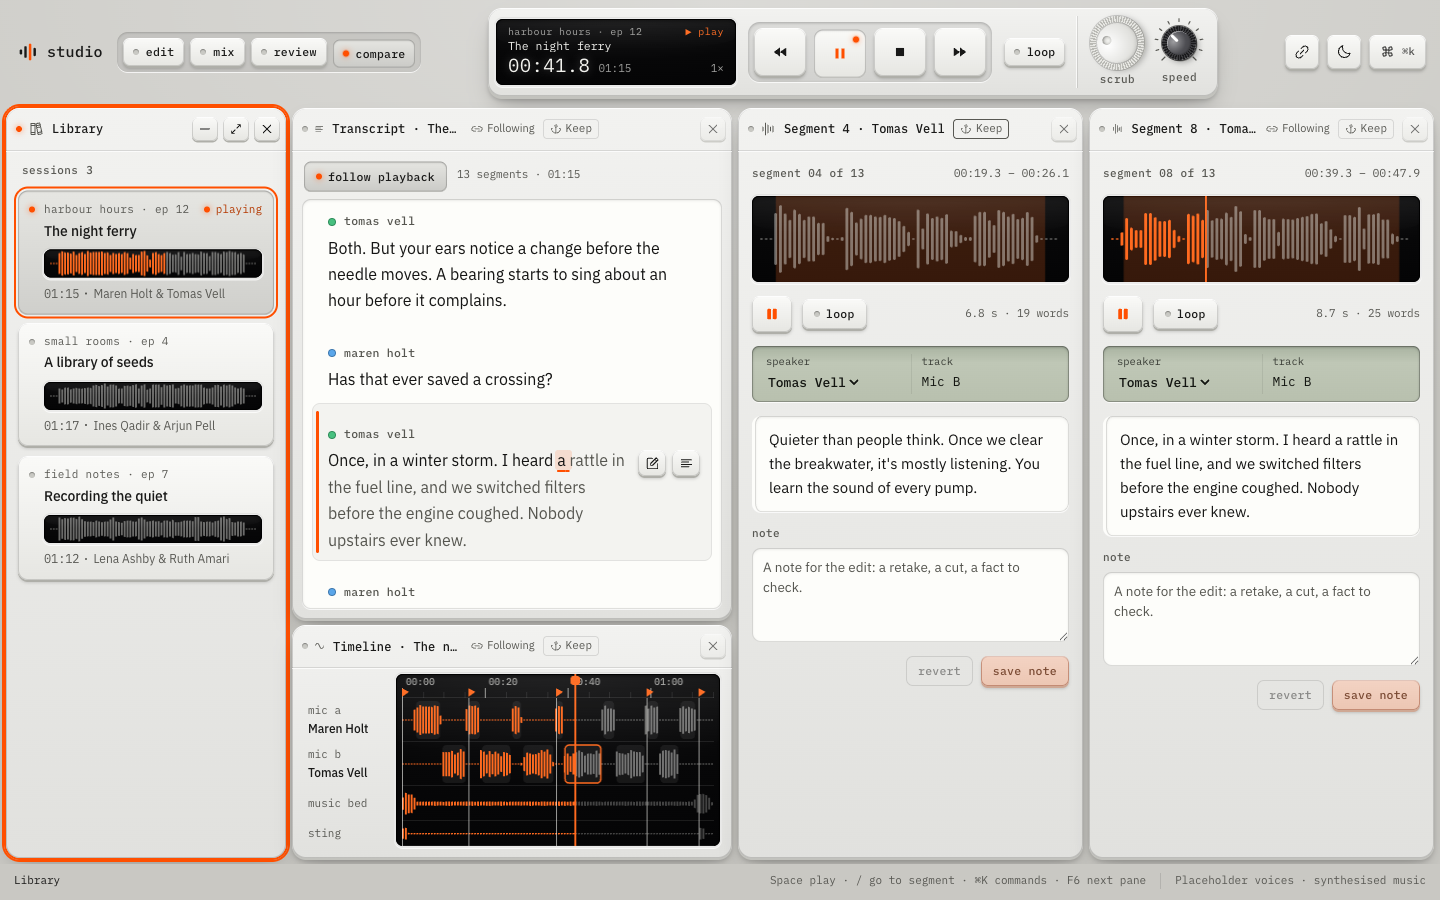
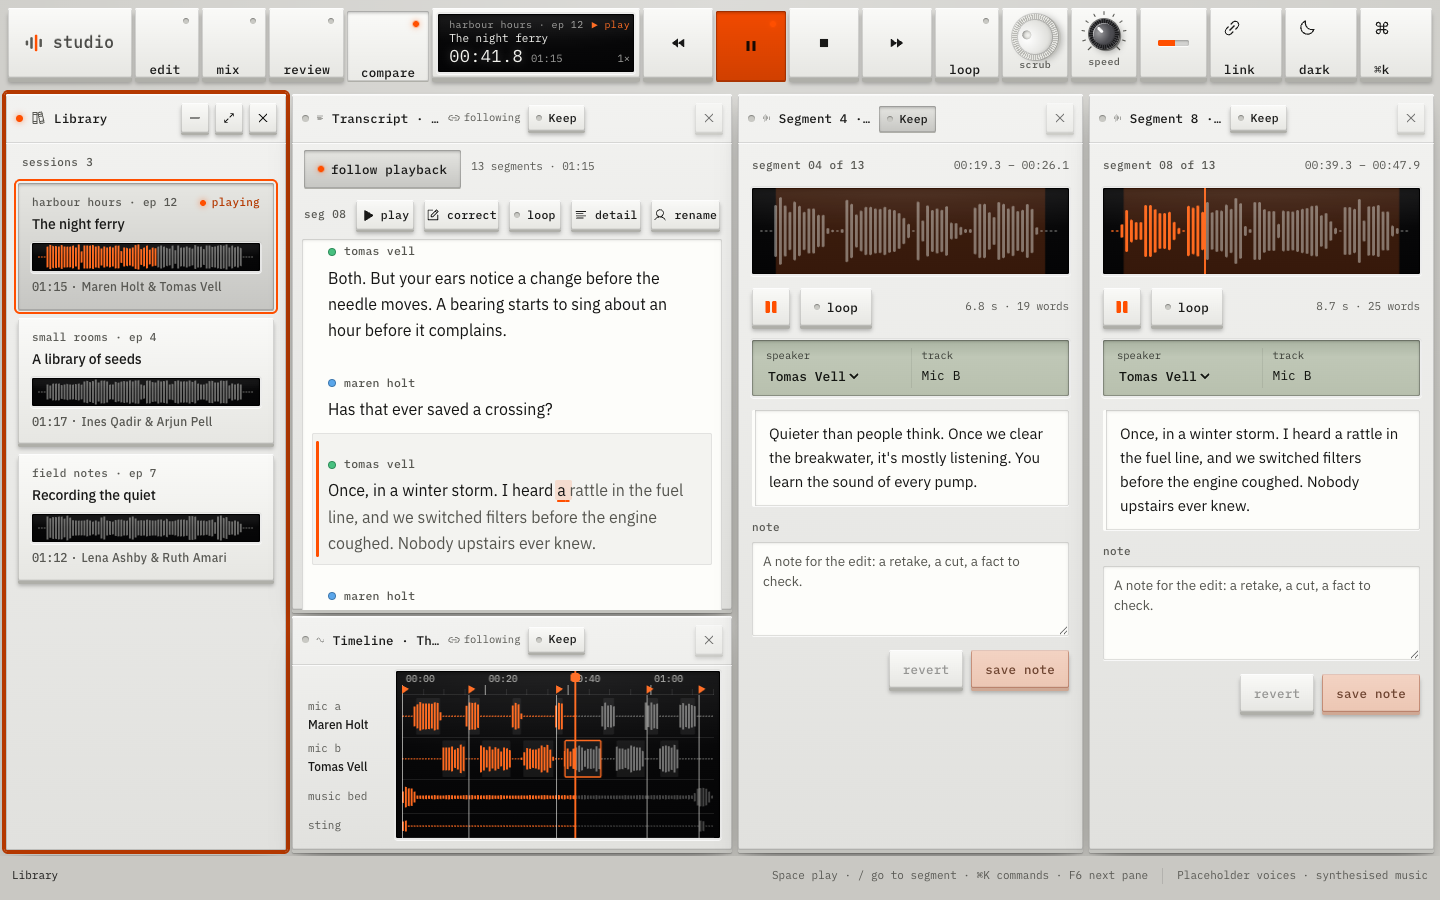
Studio example: top-row close-ups, every screenshot regenerated, README and the consolidated theming gaps

diff --git a/examples/studio/src/styles/parts.css b/examples/studio/src/styles/parts.css
@@ -19,7 +19,14 @@
  */
 @layer app {
   /* ---------- housing ---------- */
-  :where(.device, .jali-pane, .jali-peek, .jali-tab-menu, .jali-scrim > [role="dialog"], .jali-scrim > [role="alertdialog"]) {
+  :where(
+    .device,
+    .jali-pane,
+    .jali-peek,
+    .jali-tab-menu,
+    .jali-scrim > [role="dialog"],
+    .jali-scrim > [role="alertdialog"]
+  ) {
     background: linear-gradient(180deg, var(--body-1), var(--body-2));
     border: 0;
     border-radius: var(--corner);
@@ -58,17 +65,17 @@
 
   /* ---------- key ---------- */
   :where(
-      .key,
-      .lib-row,
-      .jali-tab,
-      .jali-tab-add,
-      .jali-tab-more,
-      .jali-shelf-chip,
-      .jali-switch-item,
-      .jali-pane-actions button,
-      .jali-follow-toggle,
-      .jali-scrim [role="alertdialog"] button
-    ) {
+    .key,
+    .lib-row,
+    .jali-tab,
+    .jali-tab-add,
+    .jali-tab-more,
+    .jali-shelf-chip,
+    .jali-switch-item,
+    .jali-pane-actions button,
+    .jali-follow-toggle,
+    .jali-scrim [role="alertdialog"] button
+  ) {
     --wall: 3px;
     --press: 0px;
     position: relative;
@@ -107,15 +114,15 @@
   }
   /* Sizes: small (header buttons, tabs, chips, strip keys), unit (the top row), transport. */
   :where(
-      .key-s,
-      .jali-tab,
-      .jali-tab-add,
-      .jali-tab-more,
-      .jali-shelf-chip,
-      .jali-switch-item,
-      .jali-pane-actions button,
-      .jali-follow-toggle
-    ) {
+    .key-s,
+    .jali-tab,
+    .jali-tab-add,
+    .jali-tab-more,
+    .jali-shelf-chip,
+    .jali-switch-item,
+    .jali-pane-actions button,
+    .jali-follow-toggle
+  ) {
     --wall: 2px;
     height: 30px;
     min-width: 30px;
@@ -171,7 +178,11 @@
     --press: var(--wall);
   }
   :where(.key, .jali-tab, .jali-pane-actions button):hover:not(:disabled) {
-    background: linear-gradient(180deg, var(--cap-1), color-mix(in srgb, var(--cap-2) 80%, var(--cap-1)));
+    background: linear-gradient(
+      180deg,
+      var(--cap-1),
+      color-mix(in srgb, var(--cap-2) 80%, var(--cap-1))
+    );
   }
   :where(.key):disabled {
     cursor: default;
@@ -180,13 +191,13 @@
 
   /* ---------- latch ---------- */
   :where(
-      .key[aria-pressed="true"],
-      .key[data-on],
-      .lib-row[aria-selected="true"],
-      .jali-tab[aria-selected="true"],
-      .jali-switch-item[aria-selected="true"],
-      .jali-follow-toggle[aria-pressed="true"]
-    ) {
+    .key[aria-pressed="true"],
+    .key[data-on],
+    .lib-row[aria-selected="true"],
+    .jali-tab[aria-selected="true"],
+    .jali-switch-item[aria-selected="true"],
+    .jali-follow-toggle[aria-pressed="true"]
+  ) {
     --press: calc(var(--wall) - 1px);
     background: linear-gradient(180deg, var(--cap-2), color-mix(in srgb, var(--cap-2) 86%, #000));
     box-shadow:
@@ -217,13 +228,13 @@
     right: 8px;
   }
   :where(
-      .key[aria-pressed="true"] .led,
-      .key[data-on] .led,
-      .led[data-on],
-      .jali-tab[aria-selected="true"]::before,
-      .jali-switch-item[aria-selected="true"]::before,
-      .jali-follow-toggle[aria-pressed="true"]::before
-    ) {
+    .key[aria-pressed="true"] .led,
+    .key[data-on] .led,
+    .led[data-on],
+    .jali-tab[aria-selected="true"]::before,
+    .jali-switch-item[aria-selected="true"]::before,
+    .jali-follow-toggle[aria-pressed="true"]::before
+  ) {
     background: var(--led-on);
     box-shadow:
       0 0 0 1px rgb(255 79 0 / 0.25),
@@ -368,7 +379,11 @@
     width: 78%;
     height: 78%;
     border-radius: 50%;
-    background: radial-gradient(circle at 40% 30%, light-dark(#ffffff, #4a4a4e), light-dark(#dededa, #2a2a2d) 70%);
+    background: radial-gradient(
+      circle at 40% 30%,
+      light-dark(#ffffff, #4a4a4e),
+      light-dark(#dededa, #2a2a2d) 70%
+    );
     box-shadow:
       inset 0 0 0 1px var(--body-rim),
       inset 0 -2px 3px rgb(0 0 0 / 0.12);
@@ -381,7 +396,11 @@
     height: 9px;
     translate: -50% 0;
     border-radius: 50%;
-    background: radial-gradient(circle at 50% 65%, light-dark(#f4f4f1, #3a3a3e), light-dark(#c4c4bf, #1a1a1c));
+    background: radial-gradient(
+      circle at 50% 65%,
+      light-dark(#f4f4f1, #3a3a3e),
+      light-dark(#c4c4bf, #1a1a1c)
+    );
     box-shadow: inset 0 1px 2px rgb(0 0 0 / 0.35);
   }
 
@@ -510,5 +529,12 @@
     .knob-body {
       transition: none;
     }
+  }
+}
+
+@layer app {
+  /* A key's glyph keeps its size when the key is squeezed. */
+  :where(.key) :where(svg) {
+    flex: none;
   }
 }

diff --git a/examples/studio/src/panes/mixer.tsx b/examples/studio/src/panes/mixer.tsx
@@ -153,8 +153,7 @@ function Strip({ track, view }: { track: Track; view: SessionView }) {
           onMouseDown={(e) => e.preventDefault()}
           onClick={() => edits.setChannel(session, track.id, { mute: !ch.mute })}
         >
-          <span className="led" aria-hidden />
-          M
+          <span className="led" aria-hidden />M
         </button>
         <button
           type="button"
@@ -166,8 +165,7 @@ function Strip({ track, view }: { track: Track; view: SessionView }) {
           onMouseDown={(e) => e.preventDefault()}
           onClick={() => edits.setChannel(session, track.id, { solo: !ch.solo })}
         >
-          <span className="led" aria-hidden />
-          S
+          <span className="led" aria-hidden />S
         </button>
       </div>
     </section>

diff --git a/examples/studio/src/styles/chrome.css b/examples/studio/src/styles/chrome.css
@@ -45,7 +45,8 @@
   }
   .jali-pane-actions button {
     padding: 0;
-    width: 30px;
+    width: 28px;
+    min-width: 28px;
   }
   /* Following and Keep. Keep (`.jali-follow-toggle`, public) is a small latch key with its lamp (parts.css). The
      printed "Following" is not a public part (`.jali-follow-status`): it is set as a legend, and dropped in a
@@ -78,6 +79,14 @@
   .jali-tab {
     gap: 7px;
     margin-block: 0;
+    padding-inline: 9px 8px;
+  }
+  /* A narrow header gives its "+" key away first, so the shown tab keeps a little more of its name. Uses Jali's
+     internal header container name (FINDINGS.md). */
+  @container jali-header (max-width: 320px) {
+    .jali-tab-add {
+      display: none;
+    }
   }
   .jali-tab-indicator {
     display: none;

diff --git a/examples/studio/e2e/screens.spec.ts b/examples/studio/e2e/screens.spec.ts
@@ -63,3 +63,17 @@ test("a phone", async ({ page }) => {
   await stage(page, "edit");
   await page.screenshot({ path: shot("edit-phone") });
 });
+
+// Close-ups of the top row: one row of full-height blocks at every width.
+for (const [name, width, height, dark] of [
+  ["toprow-wide", 1440, 900, false],
+  ["toprow-wide-dark", 1440, 900, true],
+  ["toprow-medium", 1100, 800, false],
+  ["toprow-phone", 390, 844, false],
+] as const) {
+  test(name, async ({ page }) => {
+    await page.setViewportSize({ width, height });
+    await stage(page, "edit", { dark });
+    await page.locator(".topbar").screenshot({ path: shot(name) });
+  });
+}

diff --git a/examples/studio/src/shell/TopBar.tsx b/examples/studio/src/shell/TopBar.tsx
@@ -29,7 +29,11 @@ export function TopBar() {
   // the session's progress, and the tools. Groups are `display: contents`, so every block is a cell of one row.
   return (
     <header className="topbar" data-jali-chrome="">
-      <a className="block block-plate badge" href="./" aria-label="Studio, a Jali example: back to the Edit layout">
+      <a
+        className="block block-plate badge"
+        href="./"
+        aria-label="Studio, a Jali example: back to the Edit layout"
+      >
         <StudioMark />
         <span className="badge-name">studio</span>
       </a>

diff --git a/examples/studio/src/panes/transcript.tsx b/examples/studio/src/panes/transcript.tsx
@@ -285,7 +285,12 @@ function TranscriptBody({
               <button type="button" className="key" onMouseDown={keepFocus} onClick={discard}>
                 Discard
               </button>
-              <button type="button" className="key key-accent" onMouseDown={keepFocus} onClick={save}>
+              <button
+                type="button"
+                className="key key-accent"
+                onMouseDown={keepFocus}
+                onClick={save}
+              >
                 Save <kbd>{keyHint("Mod+S")}</kbd>
               </button>
             </>

diff --git a/examples/studio/src/panes/clip.tsx b/examples/studio/src/panes/clip.tsx
@@ -179,12 +179,7 @@ function ClipBody({
         ) : saved ? (
           <span className="toolbar-note">Saved</span>
         ) : null}
-        <button
-          type="button"
-          className="key"
-          disabled={!dirty}
-          onClick={() => setNote(null)}
-        >
+        <button type="button" className="key" disabled={!dirty} onClick={() => setNote(null)}>
           Revert
         </button>
         <button type="button" className="key key-accent" disabled={!dirty} onClick={saveNote}>

diff --git a/examples/studio/README.md b/examples/studio/README.md
@@ -21,6 +21,7 @@ The speech was made with macOS system voices (`say`), as a placeholder for the l
 - Move through the library with J and K. The transcript, the timeline, the mixer and the markers follow it, and the transport loads that session.
 - Click a word or a time in the transcript to play from there. Drag across the timeline, or turn the jog wheel in the transport, to scrub. Press / (or ⌘K ⌘J) for "Go to segment…", and type a word.
 - With the transcript focused, J and K move between segments, and the segment detail beside it follows. Press L to loop a segment. "Follow playback" moves the selection with the voice.
+- The selected segment's keys sit above the transcript: play, correct, loop, detail and rename. Nothing sits inside a row, so every row is one option a screen reader can move through.
 - Press E on a segment to correct it, then Esc. The correction is unsaved work: the tab shows a dot, and choosing Mix (which has no transcript) asks first. Choose Review instead: the transcript and its draft come along. ⌘S saves.
 - Click a speaker's name in the transcript to rename them. The timeline, the mixer and the segment detail follow.
 - In Mix, move a fader, mute or solo a track, and watch the meters. Make the window short until the mixer folds into a tab: the sound and the mix go on, only the meters stop drawing. The folded mixer's shelf chip shows it is working.
@@ -59,8 +60,11 @@ Every audio tool plays and pauses with Space, and Jali's lists use Space to peek
 
 Studio looks like a set of hardware modules on a desk. It is inspired by a design language of small audio instruments, not a copy of any product: there are no product names, model numbers or logos in it.
 
+- **The top row.** One full-width row of full-height blocks, tiled edge to edge with a 3px gap: the studio mark, the four layout keys, the transport's readout, back, play and pause (the one solid orange block), stop, forward, loop, scrub and speed, a filler plate with the session's progress cut into it as a groove, then link, theme and ⌘K. As the window narrows the row keeps its blocks and drops parts in order: the speed knob, then the layout keys fold into one layout block (a real `<select>` under its face), then the scrub wheel and loop, then link and stop. On a phone it becomes two rows of blocks, each still edge to edge.
 - **Bodies.** Each Jali pane is a faceplate: bead-blasted aluminium in light, with a lit top edge, a rim and a side wall at its foot. The mixer is black anodised beside them; in dark mode every device is black anodised. Seams are cut lines with a lit edge under them. No screws.
-- **Controls.** Keys stand in their holes and travel down when pressed. A latched key (the layout in use, Follow playback, Loop, Mute, Solo, the shown tab) stays down with its lamp lit, so its state never rests on a shadow alone. The transport has four big square keys with an orange play legend and lamp, a loop latch, a knurled jog wheel to scrub and a speed knob. Pan is a rotary knob with a pointer and a printed scale, on blue, green, white and orange caps. Faders are round white caps riding in slots cut into the plate.
+- **Corners.** Square: one `--corner` token (2px) for every key, block, faceplate, glass, paper, menu and dialog, Jali's included. Only what is round by nature stays round: knobs, the jog wheel, fader caps and lamps.
+- **One set of parts.** `src/styles/parts.css` defines each part once (housing, tray, key in four sizes, latch, lamp, knob, jog, fader, readout, LCD, paper, legend), each rule listing the app's classes and Jali's public parts together. Everything button-like is one of them: the top row, pane header buttons, tabs, Keep, shelf chips, the phone switcher, palette and chooser rows, dialog buttons, the launcher, the library's session cards, the transcript's segment keys, mute and solo, loop, save and revert.
+- **Controls.** Keys stand in their holes (a 3 to 4px side wall) and travel down when pressed. A latched key (the layout in use, Follow playback, Loop, Mute, Solo, the shown tab) stays down with its lamp lit, so its state never rests on a shadow alone. The transport has four big square keys with an orange play legend and lamp, a loop latch, a knurled jog wheel to scrub and a speed knob. Pan is a rotary knob with a pointer and a printed scale, on blue, green, white and orange caps. Faders are round white caps riding in slots cut into the plate.
 - **Screens.** The waveforms, the timeline, the meters, the transport's readout and ⌘K's field sit behind black glass with light marks. The markers are dark print behind a grey-green LCD, and the segment detail's speaker and track sit in one too.
 - **Paper.** The transcript is read, so it is printed on a recessed sheet of paper rather than shown on a screen: 16px IBM Plex Sans, dark ink on near white (more than 15:1), light on near black in dark mode. Legends are IBM Plex Mono in lower case.
 - **Colour.** Neutral bodies, Spoke's signal orange (#ff4f00) for the one primary key, lamps and what is live; blue, green and white only on encoder caps.
@@ -88,6 +92,7 @@ The way the bodies, keys and screens are built (a molded body with a lit top edg
 | `src/workspace.ts`         | `createJali`: the kinds, layouts, launcher, keymap, `reservedKeys`, and ⌘K commands that ask with `jali.actions.choose`.                              |
 | `src/shell/`               | The app's chrome inside `<JaliRoot>`: a top bar with the layouts and the transport, a status line with Jali's `<Shelf />`, the app's keys.            |
 | `src/styles/tokens.css`    | The hardware family on Jali's `--jali-*` tokens and the app's own: bodies, key caps, screens, the LCD, paper. Light and dark as `light-dark()` pairs. |
+| `src/styles/parts.css`     | The parts, defined once: housing, tray, key, latch, lamp, knob, jog, fader, readout, LCD, paper, legend.                                              |
 | `src/styles/chrome.css`    | Jali's own chrome as part of the family: faceplates, header keys, tabs as latched keys, the shelf, ⌘K and the chooser with a screen for a field.      |
 | `src/ui/Knob.tsx`          | The knobs and the jog wheel: drawn in CSS and SVG, built as `role="slider"` with names, values, keys and drag.                                        |
 | `scripts/make-voices.mjs`  | Makes the speech (`say`, `afconvert`) and `src/sessions/generated.ts`: segment times from the clips' real lengths, word times interpolated.           |

diff --git a/examples/studio/FINDINGS.md b/examples/studio/FINDINGS.md
@@ -137,6 +137,28 @@ Studio was restyled so that each pane reads as a device on a desk: faceplates, k
 - Give pressable chrome a `data-pressed` while the pointer is down, and toggles `aria-pressed` everywhere they latch.
 - Document which structural selectors are safe, or say plainly that only the listed parts are, so an app knows what will break.
 
+## Theming gaps, consolidated (for the next change to Jali's API)
+
+The deeper restyle (one tiled top row, one set of parts for every button-like thing, square corners everywhere) needed the items below. For each: the part, what Studio used, and the API that would make it clean. Everything else went through `--jali-*` tokens and the public parts with no trouble.
+
+1. **Pane header buttons** (tuck, maximise, full screen, close). Used `.jali-pane-actions button`; the buttons themselves carry only private classes (`.jali-icon-btn`, `.jali-act-close`, …). Want: a public part `.jali-pane-action` with `data-action="tuck" | "zoom" | "fullscreen" | "close"`.
+2. **Keep and Following.** `.jali-follow-toggle` turned out to be the Keep button itself, not a container (the Parts reference doesn't say), and the printed "Following" is the private `.jali-follow-status`. Studio hides the status in narrow headers with `@container jali-header (max-width: 400px)`, a container name that is Jali's internal. Want: `.jali-follow-status` public, the parts' element types documented, and a public header container name or a `data-narrow` attribute on narrow headers.
+3. **The ⌘K and chooser dialog and its field.** Used `.jali-scrim > [role="dialog"]` and `.jali-scrim [role="combobox"]`. `.jali-palette` and `.jali-palette-input` exist but are not listed as parts. Want: both listed as public parts, and a token for the dialog's padding.
+4. **"Discard unsaved changes?" buttons.** Used `.jali-scrim [role="alertdialog"] button`, and `:last-of-type` to find the primary one (the only marker is the private `.is-primary`). Want: `data-role="primary" | "secondary"` on every dialog button, public.
+5. **Palette rows' key hint and group label.** Used `.jali-palette-item kbd`; the group is private `.jali-palette-group`. Want: both as public parts.
+6. **Corners Jali hard-codes.** These ignore `--jali-radius`, `--jali-radius-control` and `--jali-radius-menu`: the palette, Settings and confirm dialogs (12px), the Keep toggle (4px), a tab's close button (4px), the rename field (4px), tab menu items (5px), the shelf's chips, their inner buttons, "more" and its menu (5px), the kept badge (4px), the peek label (4px), the investigation chips (7px). Studio squared them with `:where(.jali-shelf, .jali-pane-header, .jali-peek, .jali-tab-menu, [data-jali-layer]) :where(button, input, li, kbd)` and `.jali-scrim > *`. Want: every radius in Jali's styles reads one of the radius tokens (add `--jali-radius-chip` if a fourth size is needed), so `--jali-radius*: 2px` is enough.
+7. **The gap between panes.** `GAP` is a constant (6px). Faceplates with a 3 to 4px side wall nearly touch; the top row uses a 3px gap and the panes can't match it. Want: `--jali-gap` (read by the layout's measuring too) or `createJali({ gap })`.
+8. **The pane's own shadow and focus.** To add a ring for focus, Studio repeats the whole shadow stack in `.jali-pane[data-focused]` (Jali's own focus is a 0.5px accent shadow plus border colour). Want: tokens `--jali-pane-shadow`, `--jali-pane-shadow-focused` and `--jali-pane-border`, so a theme sets them once.
+9. **Divider line.** `[data-divider]` is public; the line it lights is the private `.jali-divider-line`, coloured by `--jali-border-strong`. Want: the line as a public part, or a `--jali-divider-hover` token.
+10. **Adornments on tabs and switcher items.** A latched tab gets its lamp from `::before`, since a tab takes no children of the app's. If Jali ever uses `::before` there, the lamp breaks. Want: a documented slot (for example `tabAdornment(pane)` returning a node), or a promise that `::before` and `::after` on public parts are the app's.
+11. **Shelf menu and shelf chip internals.** `.jali-shelf-menu`, `.jali-shelf-chip-main`, `.jali-shelf-chip-put` and `.jali-shelf-more` are private; reached as `.jali-shelf button`. Want: listed as parts.
+12. **Icon sizes.** Jali passes a fixed `size` to each icon (12 to 16px by place). Hardware keys want larger glyphs in header buttons. Want: a size token per place (`--jali-icon-header`, `--jali-icon-tab`) or a size in the `icons` map.
+13. **Activity marks.** Only their colours are tokens; their shape (a dot, a spinning ring) is fixed. Studio wanted a lamp for "working". Want: activity marks as public parts with `data-activity`, so an app can draw its own.
+14. **Pressed state.** Jali's buttons have no attribute while held; `:active` covers the pointer, but a key held from the keyboard (Space, Enter on a tab) shows no travel. Want: `data-pressed` while a Jali control is held, by pointer or key.
+15. **Folded tabs' treatment.** Italic is hard-coded for `data-folded`. Fine, but a token (`--jali-tab-folded-style`) would let a hardware theme print a dotted rim instead without fighting it.
+
+Not Jali's, for the record: making the top row one flex row of blocks meant grouping elements in `display: contents` wrappers that keep their roles (`navigation` "Layouts", `group` "Transport", "Tools"). Chrome exposes those roles; it is worth testing in other browsers before relying on it.
+
 ## What worked
 
 - **Following a moment in time.** The playhead lives in the app's engine, not in Jali. Panes read it with `usePosition(paused)` or `useFrame(paused, draw)`, and `paused` was exactly the signal needed: a folded, tabbed, tucked or zoomed-past pane stops drawing, and the sound goes on.
